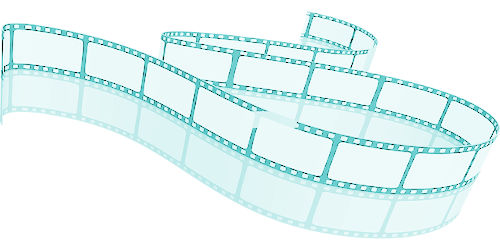
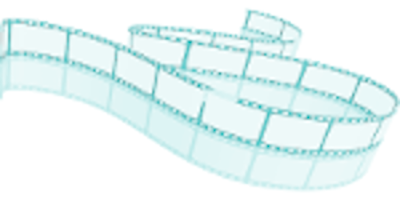
updated code

Changed region(s): [[0.0, 0.09, 1.0, 0.78], [0.6, 0.03, 0.69, 0.15], [0.75, 0.15, 0.78, 0.18]]

diff --git a/src/component/Review.js b/src/component/Review.js
@@ -1,111 +1,114 @@
+import React, { useState, useEffect } from "react";
+import { POSTREVIEW, useStore } from "./store/store";
+import { reviewRequest, createMessageRev } from "../request";
+import { Form, Button } from "react-bootstrap";
 
-import React, { useState, useEffect } from 'react';
-import { POSTREVIEW, useStore } from './store/store';
-import { reviewRequest, createMessageRev } from '../request';
-import { Form, Button } from 'react-bootstrap';
-
-import film from '../stories/assets/filmstrip.png';
+import film from "../stories/assets/review_film1.png";
 
 function Review({ movieId }) {
-	const dispatch = useStore((state) => state.dispatch);
-	const [newReview, setNewReview] = useState({
-		username: '',
-		title: '',
-		review: '',
-	});
-	const [review, setReview] = useState([]);
+  const dispatch = useStore((state) => state.dispatch);
+  const [newReview, setNewReview] = useState({
+    username: "",
+    title: "",
+    review: "",
+  });
+  const [review, setReview] = useState([]);
 
-	useEffect(() => {
-		createMessageRev().then((data) => {
-			setNewReview(data.reviews);
-			console.log(data.reviews);
-		});
-	}, []);
+  useEffect(() => {
+    createMessageRev().then((data) => {
+      setNewReview(data.reviews);
+      console.log(data.reviews);
+    });
+  }, []);
 
-	useEffect(() => {
-		reviewRequest().then((data) => setReview(data));
-	}, [newReview]);
+  useEffect(() => {
+    reviewRequest().then((data) => setReview(data));
+  }, [newReview]);
 
-	const handleNewReview = (e) => {
-		e.preventDefault();
-		createMessageRev(newReview.username, newReview.title, newReview.review, movieId).then((data) => {
-			dispatch({ type: POSTREVIEW, PAYLOAD: data });
-		});
-		setNewReview({
-			username: '',
-			title: '',
-			review: '',
-		});
-	};
-	console.log(newReview);
+  const handleNewReview = (e) => {
+    e.preventDefault();
+    createMessageRev(
+      newReview.username,
+      newReview.title,
+      newReview.review,
+      movieId
+    ).then((data) => {
+      dispatch({ type: POSTREVIEW, PAYLOAD: data });
+    });
+    setNewReview({
+      username: "",
+      title: "",
+      review: "",
+    });
+  };
+  console.log(newReview);
 
-	const handleReview = (e) => {
-		e.preventDefault();
-		setNewReview({
-			...newReview,
-			[e.target.name]: e.target.value,
-		});
-	};
+  const handleReview = (e) => {
+    e.preventDefault();
+    setNewReview({
+      ...newReview,
+      [e.target.name]: e.target.value,
+    });
+  };
 
-	return (
-		<div>
-			{movieId ? (
-				<Form>
-					<label className='review-form'>
-						<p>Your Review</p>
+  return (
+    <div>
+      {movieId ? (
+        <Form>
+          <label className="review-form">
+            <p>Your Review</p>
 
-						<textarea
-							classsName='username'
-							placeholder='username'
-							name='username'
-							rows='1'
-							cols='10'
-							type='text'
-							autoFocus
-							onChange={(e) => handleReview(e)}
-							value={newReview.username}
-						/>
-						<textarea
-							classsName='title'
-							placeholder='title'
-							name='title'
-							rows='1'
-							cols='10'
-							type='text'
-							disabled
-							value={newReview.title}
-							// this should be disabled and filled with the title from the image
-						/>
-						<textarea
-							classsName='review'
-							placeholder='review'
-							name='review'
-							rows='10'
-							cols='30'
-							type='text'
-							autoFocus
-							onChange={(e) => handleReview(e)}
-							value={newReview.review}
-						/>
-					</label>
-					<Button variant='outline-primary' onClick={(e) => handleNewReview(e)}>
-						Rate it!
-					</Button>{' '}
-				</Form>
-			) : (
-				<div>
-					{review.map((review) => (
-						<div>
-							<h1>{review.title}</h1>
-							<p>{review.username}</p>
-							<p>{review.review}</p>
-						</div>
-					))}
-				</div>
-			)}
-		</div>
-	);
-
+            <textarea
+              classsName="username"
+              placeholder="username"
+              name="username"
+              rows="1"
+              cols="10"
+              type="text"
+              autoFocus
+              onChange={(e) => handleReview(e)}
+              value={newReview.username}
+            />
+            <textarea
+              classsName="title"
+              placeholder="title"
+              name="title"
+              rows="1"
+              cols="10"
+              type="text"
+              disabled
+              value={newReview.title}
+              // this should be disabled and filled with the title from the image
+            />
+            <textarea
+              classsName="review"
+              placeholder="review"
+              name="review"
+              rows="10"
+              cols="30"
+              type="text"
+              autoFocus
+              onChange={(e) => handleReview(e)}
+              value={newReview.review}
+            />
+          </label>
+          <Button variant="outline-primary" onClick={(e) => handleNewReview(e)}>
+            Rate it!
+          </Button>{" "}
+        </Form>
+      ) : (
+        <div>
+          {review.map((review) => (
+            <div>
+              <h1>{review.title}</h1>
+              <p>{review.username}</p>
+              <p>{review.review}</p>
+            </div>
+          ))}
+        </div>
+      )}
+    </div>
+  );
 }
 
 export default Review;
